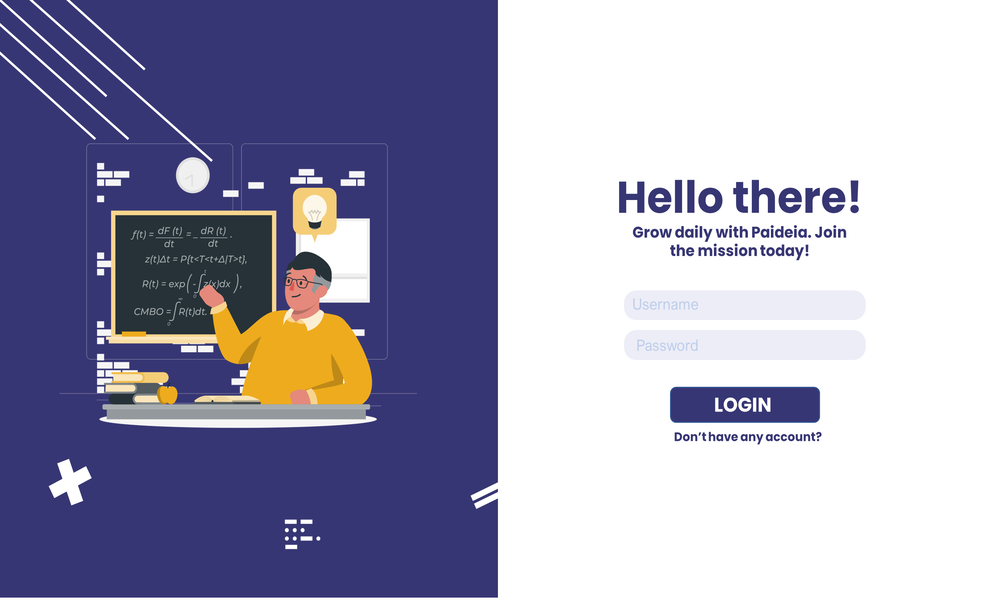
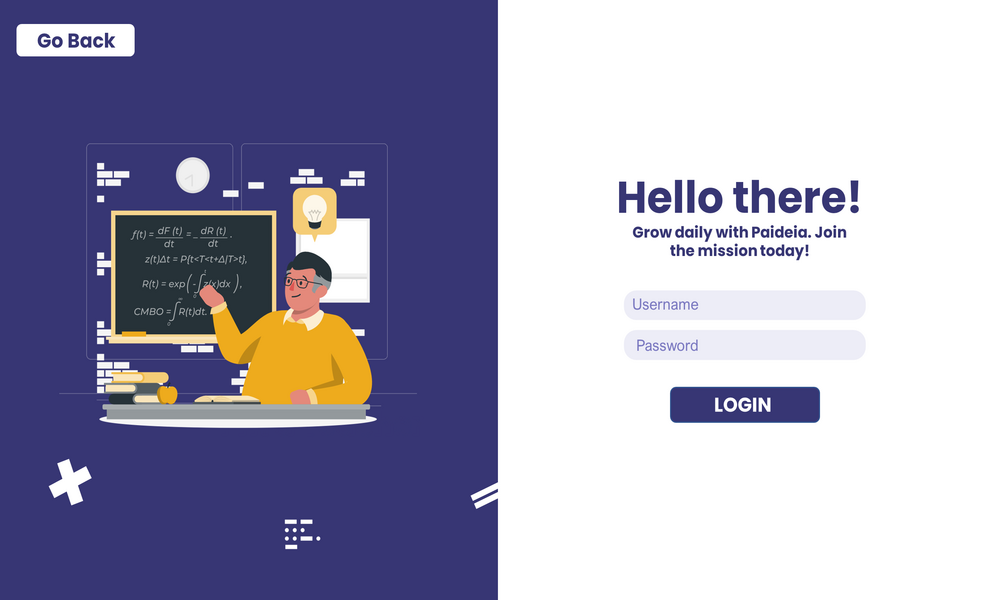
Login Elements Aligned, Images Updated

diff --git a/PaideiaTest/src/LoginPageDecor.java b/PaideiaTest/src/LoginPageDecor.java
@@ -3,45 +3,48 @@ import java.awt.image.BufferedImage;
 //import java.io.File;
 import javax.imageio.ImageIO;
 
-import javax.swing.*; 
+import javax.swing.*;
 //import java.awt.event.*;
 
-public class LoginPageDecor{
-    public LoginPageDecor(JFrame mainFrame, JButton goBack, LoginFunctions lgn){
+public class LoginPageDecor {
+    public LoginPageDecor(JFrame mainFrame, JButton goBack, LoginFunctions lgn) {
 
-        //removing homepage components 
+        // removing homepage components
         mainFrame.getContentPane().removeAll();
-        
-        //adding background image on loginpage
-        try{
-            BufferedImage lgnImage = ImageIO.read(getClass().getResource("Images/Loginpage.PNG"));
+
+        // adding background image on loginpage
+        try {
+            BufferedImage lgnImage = ImageIO.read(getClass().getResource("Loginpage.PNG"));
             mainFrame.setContentPane(new ImagePanel(lgnImage));
-        }
-        catch(Exception e){
+        } catch (Exception e) {
             System.out.println(e);
         }
 
-        //arranging loginpage components
-        lgn.Username.setBounds       (350, 200, 100, 50);
-        lgn.Email.setBounds          (340, 200, 100, 50);
-        lgn.Password.setBounds       (340, 300, 100, 50);
-        lgn.UsernameTF.setBounds     (440, 200, 150, 50);
-        lgn.EmailTF.setBounds        (440, 200, 150, 50);
-        lgn.PasswordPF.setBounds     (440, 300, 150, 50);       
-        lgn.ForgotPasswordB.setBounds (370, 400, 200, 25);
-        lgn.WithEmailB.setBounds      (370, 450, 200, 25);
-        lgn.WithUsernameB.setBounds   (370, 450, 200, 25);
-        lgn.Button.setBounds         (370, 500, 200, 25);
-        lgn.sgnpButton.setBounds     (12, 100, 200, 25);
-        
+        // arranging loginpage components
+        // lgn.Username.setBounds(100, 100, 40, 50);
+        // lgn.Email.setBounds(140, 100, 100, 50);
+        // lgn.Password.setBounds(140, 10, 100, 50);
+        lgn.UsernameTF.setBounds(621, 290, 245, 30);
+        lgn.EmailTF.setBounds(621, 300, 245, 30);
+        lgn.PasswordPF.setBounds(621, 330, 245, 30);
+        lgn.ForgotPasswordB.setBounds(670, 430, 150, 16);
+        // lgn.WithEmailB.setBounds(370, 450, 200, 25);
+        // lgn.WithUsernameB.setBounds(370, 450, 200, 25);
+        lgn.Button.setBounds(670, 386, 150, 37);
+        lgn.sgnpButton.setBounds(670, 452, 150, 16);
+        goBack.setBounds(15, 24, 121, 33);
+
         lgn.Username.setFont(new Font("Times New Roman", Font.PLAIN, 20));
         lgn.Email.setFont(new Font("Times New Roman", Font.PLAIN, 20));
         lgn.Password.setFont(new Font("Times New Roman", Font.PLAIN, 20));
         lgn.UsernameTF.setFont(new Font("Times New Roman", Font.PLAIN, 20));
         lgn.PasswordPF.setFont(new Font("Times New Roman", Font.PLAIN, 20));
-        lgn.ForgotPasswordB.setFont(new Font("Times New Roman", Font.PLAIN, 20));
+        lgn.ForgotPasswordB.setFont(new Font("Times New Roman", Font.PLAIN, 14));
+        lgn.Button.setFont(new Font("Times New Roman", Font.PLAIN, 21));
+        lgn.sgnpButton.setFont(new Font("Times New Roman", Font.PLAIN, 14));
+        goBack.setFont(new Font("Times New Roman", Font.PLAIN, 16));
 
-        //adding loginpage components in mainFrame
+        // adding loginpage components in mainFrame
         mainFrame.add(lgn.Username);
         mainFrame.add(lgn.Password);
         mainFrame.add(lgn.UsernameTF);
@@ -50,10 +53,10 @@ public class LoginPageDecor{
         mainFrame.add(lgn.WithEmailB);
         mainFrame.add(lgn.Button);
         mainFrame.add(lgn.sgnpButton);
-        //adding go back button in both loginpage and signuppage
+        // adding go back button in both loginpage and signuppage
         mainFrame.add(goBack);
 
-        //refreshing and updating the mainFrame
+        // refreshing and updating the mainFrame
         SwingUtilities.updateComponentTreeUI(mainFrame);
 
     }
